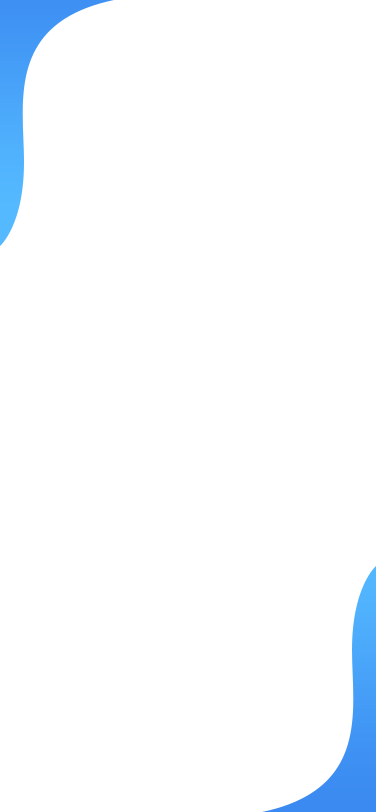
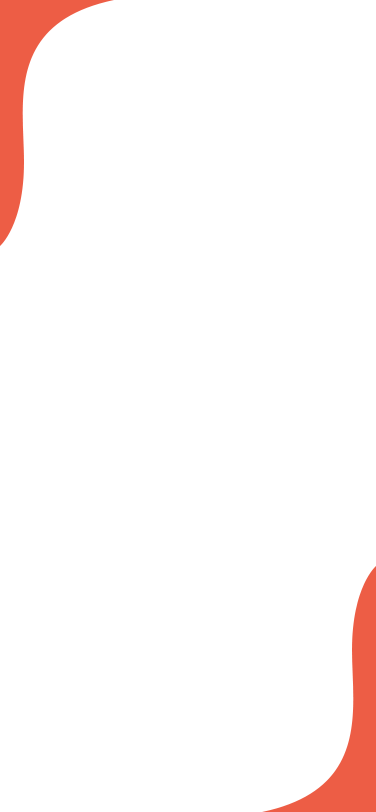
colors-changed

Changed region(s): [[0.7021, 0.6773, 1.0, 1.0], [0.0, 0.0, 0.2926, 0.3079]]

diff --git a/pages/Footer/Index.tsx b/pages/Footer/Index.tsx
@@ -38,8 +38,8 @@ const FooterNavigation: React.FunctionComponent<Props> = ({
         <View style={style.container}>
             <TouchableOpacity onPress={backButton}>
                 <View style={[style.iconContainer, { backgroundColor: 'transparent' }]}>
-                    <Icon name="home" size={30} style={[style.Icon, { color: '#2b98ea' }]} />
-                    <Text style={[style.IconTitle, { color: '#2b98ea' }]}>{"Home"}</Text>
+                    <Icon name="home" size={30} style={[style.Icon, { color: '#ec5c44' }]} />
+                    <Text style={[style.IconTitle, { color: '#ec5c44' }]}>{"Home"}</Text>
                 </View>
             </TouchableOpacity>
             <TouchableOpacity onPress={goToShopping}>

diff --git a/components/Base/RoundButton.tsx b/components/Base/RoundButton.tsx
@@ -42,8 +42,8 @@ const style: Style = StyleSheet.create<Style>({
         justifyContent: "center",
         borderRadius: 45,
         borderWidth: 1,
-        borderColor: "#1da1f2",
-        backgroundColor: "#1da1f2",
+        borderColor: "#ec5c44",
+        backgroundColor: "#ec5c44",
         shadowOffset: { width: 0, height: 8 },
         shadowColor: 'black',
         shadowOpacity: 0.2,

diff --git a/config/DefaultConfig.ts b/config/DefaultConfig.ts
@@ -71,7 +71,7 @@ export const lightTheme: AppTheme = {
   lightBottomColor: "#e6e6e6",
   alternateMessageBackgroundColor: '#B0E0E6',
   labelBgColor: "#000",
-  activeColor: "#37adf4",
+  activeColor: "#ec5c44",
   dangerColor: "#e13e3d",
 }
 

diff --git a/pages/CreateAccount/Index.tsx b/pages/CreateAccount/Index.tsx
@@ -156,7 +156,7 @@ const style: Style = StyleSheet.create<Style>({
   title: {
     fontSize: 28,
     fontWeight: "600",
-    color: "#54afee"
+    color: "#ec5c44"
   },
   iconContainer: {
     borderRadius: 6,
